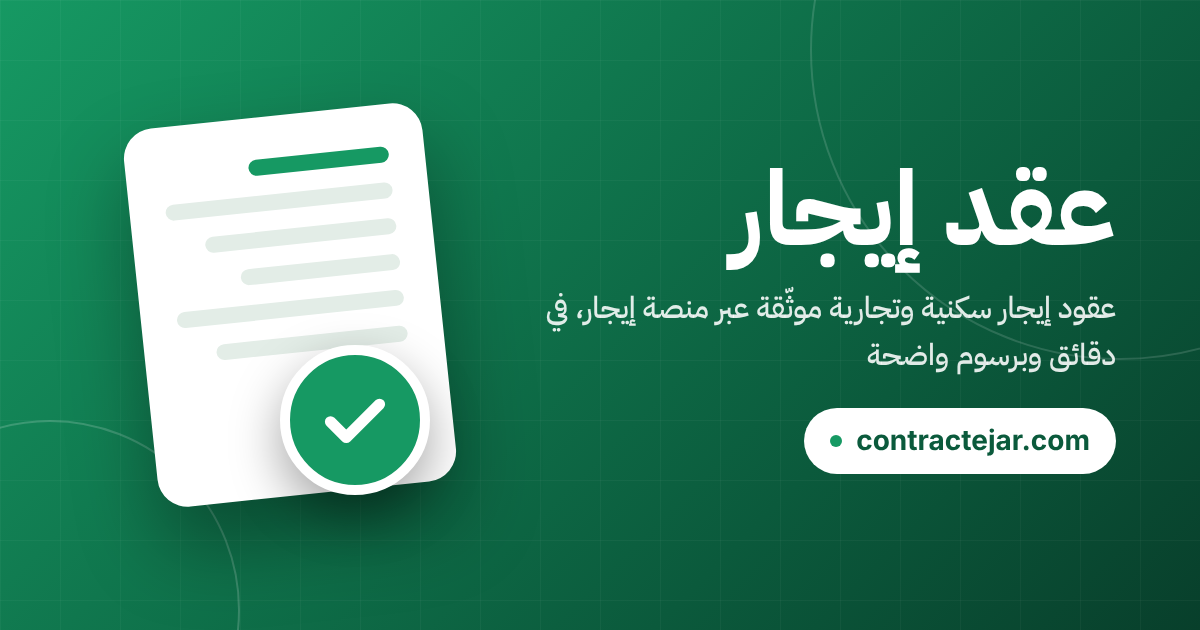
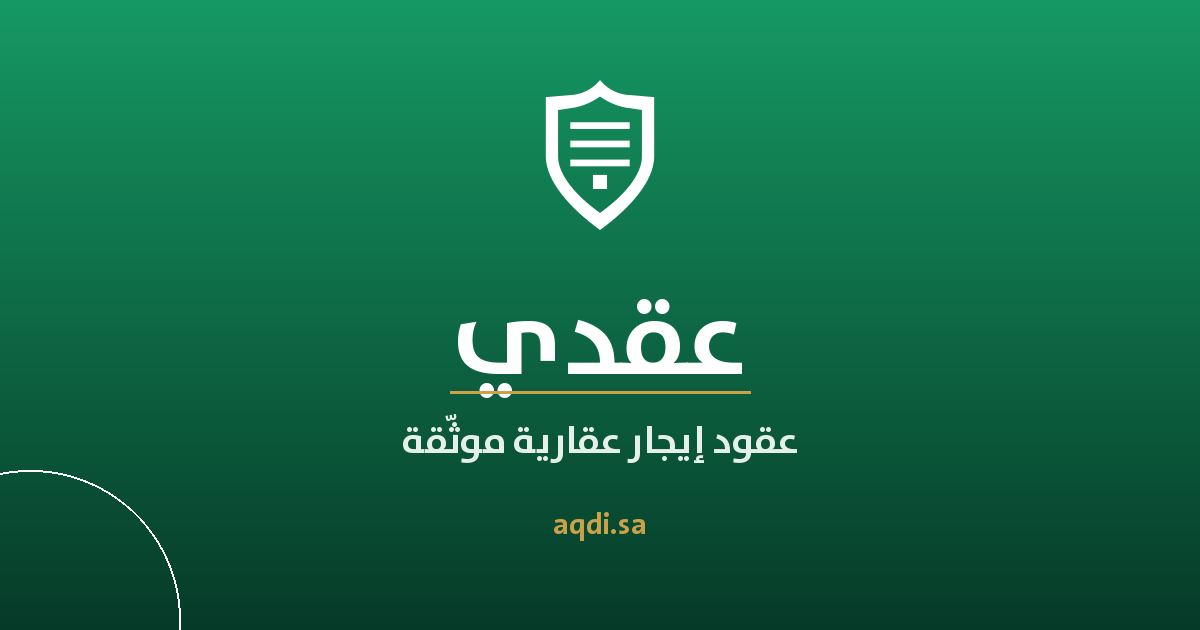
تغيير الاسم والشعار إلى «عقدي» + سجل العمل (البند 2)
Claude-Session: https://claude.ai/code/session_015uvxt7A31EqhwrAAPkKYDo

diff --git a/features/shared/components/navbar-logo.tsx b/features/shared/components/navbar-logo.tsx
@@ -3,26 +3,30 @@ export default function NavbarLogo() {
     <svg
       width="46"
       height="46"
-      viewBox="0 0 64 64"
+      viewBox="-30 6 264 264"
       fill="none"
       xmlns="http://www.w3.org/2000/svg"
       aria-hidden="true"
       className="shrink-0"
     >
-      {/* عقد إيجار — وثيقة موثّقة (Contract Ejar identity mark) */}
-      <rect x="13" y="9" width="30" height="40" rx="6" fill="#169963" />
-      <path d="M19 20H37" stroke="white" strokeWidth="3" strokeLinecap="round" />
-      <path d="M19 27H37" stroke="white" strokeWidth="3" strokeLinecap="round" opacity="0.8" />
-      <path d="M19 34H31" stroke="white" strokeWidth="3" strokeLinecap="round" opacity="0.6" />
-      <circle cx="45" cy="45" r="13" fill="#0B5A3C" stroke="white" strokeWidth="3" />
+      {/* شعار عقدي — الدرع (الأمان) والعقد (من دليل الهوية) */}
+      <defs>
+        <linearGradient id="aqdi-mark-gradient" x1="0" y1="0" x2="0" y2="1">
+          <stop offset="0" stopColor="#0d5a50" />
+          <stop offset="1" stopColor="#0db38b" />
+        </linearGradient>
+      </defs>
       <path
-        d="M39 45l4.5 4.5 7.5-9"
-        fill="none"
-        stroke="white"
-        strokeWidth="3.4"
-        strokeLinecap="round"
-        strokeLinejoin="round"
+        fill="url(#aqdi-mark-gradient)"
+        fillRule="evenodd"
+        d="M13 38L60 34C78 31 92 22 101.5 10C111 22 125 31 143 34L190 38V135C190 175 150 220 101.5 255C53 220 13 175 13 135Z M33 59L60 55C76 52 90 45 101.5 37C113 45 127 52 143 55L170 59V135C170 165 140 200 101.5 227C63 200 33 165 33 135Z"
       />
+      <g fill="url(#aqdi-mark-gradient)">
+        <rect x="53" y="79" width="97" height="11" />
+        <rect x="53" y="109" width="97" height="11" />
+        <rect x="53" y="140" width="97" height="11" />
+        <rect x="90" y="165" width="23" height="23" />
+      </g>
     </svg>
   );
 }

diff --git a/app/(main)/status/page.tsx b/app/(main)/status/page.tsx
@@ -11,7 +11,7 @@ export const dynamic = "force-dynamic";
 
 export const metadata: Metadata = buildPageMetadata({
   title: "حالة المنصة",
-  description: "حالة خدمات منصة عقد إيجار الآن: الطلبات، قاعدة البيانات، الإشعارات، وبوابة الدفع.",
+  description: "حالة خدمات منصة عقدي الآن: الطلبات، قاعدة البيانات، الإشعارات، وبوابة الدفع.",
   path: "/status",
   noindex: true,
 });
@@ -42,7 +42,7 @@ export default async function StatusPage() {
           </div>
           <h1 className="text-3xl font-bold leading-tight md:text-4xl">هل كل شيء يعمل؟</h1>
           <p className="mx-auto max-w-2xl text-base leading-relaxed text-muted-foreground">
-            نعرض هنا حالة خدمات «عقد إيجار» لحظة بلحظة. إذا واجهت مشكلة والصفحة تقول إن كل شيء سليم، تواصل معنا من{" "}
+            نعرض هنا حالة خدمات «عقدي» لحظة بلحظة. إذا واجهت مشكلة والصفحة تقول إن كل شيء سليم، تواصل معنا من{" "}
             <Link href="/support" className="font-bold text-brand underline-offset-4 hover:underline">
               صفحة الدعم
             </Link>

diff --git a/app/layout.tsx b/app/layout.tsx
@@ -134,7 +134,7 @@ export default async function RootLayout({
     ? null
     : await getWebsiteClosedView(websiteStatus, locale);
 
-  // Organization + WebSite structured data (JSON-LD): يعرّف كيان «عقد إيجار»
+  // Organization + WebSite structured data (JSON-LD): يعرّف كيان «عقدي»
   // (الاسم/الشعار/التواصل) لمحركات البحث ومحرّكات AI ليظهر كمصدر موثوق.
   // رقم الدعم وحسابات التواصل من إعدادات الخادم (لا أرقام ولا حسابات ثابتة في الكود).
   const supportTel = (resolveFooterPhoneHref(settings) ?? "tel:+966597500014").replace(/^tel:/, "");
@@ -142,7 +142,7 @@ export default async function RootLayout({
   const orgJsonLd = {
     "@context": "https://schema.org",
     "@type": "Organization",
-    name: "عقد إيجار",
+    name: "عقدي",
     alternateName: "منصة توثيق عقود الإيجار",
     legalName: "مؤسسة عقدي العقارية",
     url: SITE_URL,
@@ -161,7 +161,7 @@ export default async function RootLayout({
   const websiteJsonLd = {
     "@context": "https://schema.org",
     "@type": "WebSite",
-    name: "عقد إيجار",
+    name: "عقدي",
     url: SITE_URL,
     inLanguage: "ar",
   };

diff --git a/tests/batch-e-qa-fixes.test.ts b/tests/batch-e-qa-fixes.test.ts
@@ -60,7 +60,7 @@ const LABELS: RequestInvoiceDialogLabels = {
   tableDescription: "الوصف",
   tableAmount: "المبلغ",
   title: "الفاتورة",
-  platformName: "عقد إيجار",
+  platformName: "عقدي",
   platformSubtitle: "منصة توثيق عقود الإيجار",
   printLabel: "طباعة / تحميل الفاتورة",
   totalDueLabel: "الإجمالي المستحق",
@@ -118,7 +118,7 @@ describe("W-2 — invoice on /track and /r/{order} from the track payload", () =
     expect(invoice?.transactions).toHaveLength(1);
     expect(invoice?.transactions[0]).toMatchObject({ kind: "bank_transfer", amount: 249, reference: "QA-TRF-301" });
     expect(invoice?.payment_state?.label).toBe("مدفوع · حوالة · 249 ر.س");
-    expect(invoice?.platform_name).toBe("عقد إيجار");
+    expect(invoice?.platform_name).toBe("عقدي");
     expect(invoice?.print_label).toBe("طباعة / تحميل الفاتورة");
     expect(invoice?.datetime_label).toMatch(/^10\/10\/2026, 01:45$/);
   });

diff --git a/lib/seo/page-metadata.ts b/lib/seo/page-metadata.ts
@@ -1,7 +1,7 @@
 import type { Metadata } from "next";
 
 export const SITE_URL = process.env.NEXT_PUBLIC_SITE_URL || "https://contractejar.com";
-export const SITE_NAME = "عقد إيجار";
+export const SITE_NAME = "عقدي";
 export const SITE_TAGLINE = "منصة توثيق عقود الإيجار";
 export const DEFAULT_OG_IMAGE = { url: "/og-image.png", width: 1200, height: 630, alt: `${SITE_NAME} — ${SITE_TAGLINE}` };
 
@@ -12,7 +12,7 @@ type PageMetadataInput = {
   description: string;
   /** Canonical path, e.g. `/guide`. */
   path: string;
-  /** Use the title verbatim (no `| عقد إيجار` suffix). */
+  /** Use the title verbatim (no `| عقدي` suffix). */
   absoluteTitle?: boolean;
   /** `noindex, nofollow` for transactional / personal pages. */
   noindex?: boolean;

diff --git a/features/support/components/support-section.tsx b/features/support/components/support-section.tsx
@@ -66,12 +66,12 @@ export default async function SupportSection({ content }: SupportSectionProps) {
           <div className="order-1 lg:order-2">
             <SupportVisual
               alt={resolved.imageAlt}
-              chatName="فريق دعم عقد إيجار"
+              chatName="فريق دعم عقدي"
               status="متصل الآن"
               messages={[
                 {
                   from: "in",
-                  text: "أهلاً بك في عقد إيجار 👋 كيف يمكنني مساعدتك في توثيق عقدك؟",
+                  text: "أهلاً بك في عقدي 👋 كيف يمكنني مساعدتك في توثيق عقدك؟",
                   time: "١:٣٠ ص",
                 },
                 {

diff --git a/features/settings/utils/build-whatsapp-href.ts b/features/settings/utils/build-whatsapp-href.ts
@@ -21,7 +21,7 @@ export function buildWhatsappHref(
   return `https://wa.me/${normalized}`;
 }
 
-// رقم دعم «عقد إيجار» (0597500014) — القيمة الاحتياطية الوحيدة في الكود (قاعدة ف18).
+// رقم دعم «عقدي» (0597500014) — القيمة الاحتياطية الوحيدة في الكود (قاعدة ف18).
 // المصدر الفعلي هو إعدادات الخادم (`whatsapp_contact` / `whatsapp` / `support_phone`
 // من GET /settings)؛ تُستخدم هذه القيمة فقط عند غياب الإعداد أو بقاء العيّنة التجريبية.
 export const DEFAULT_CONTACT_NUMBER = "966597500014";

diff --git a/features/track-order/components/rate-service-card.tsx b/features/track-order/components/rate-service-card.tsx
@@ -16,7 +16,7 @@ const PLAY_STORE_REVIEW_URL = process.env.NEXT_PUBLIC_PLAY_STORE_REVIEW_URL || "
  */
 export default function RateServiceCard({ orderNumber }: { orderNumber: string }) {
   const whatsappBase = useWhatsappHref();
-  const text = `أبغى أقيّم خدمة «عقد إيجار» لطلبي رقم ${orderNumber}: ⭐⭐⭐⭐⭐\nملاحظاتي: `;
+  const text = `أبغى أقيّم خدمة «عقدي» لطلبي رقم ${orderNumber}: ⭐⭐⭐⭐⭐\nملاحظاتي: `;
   const whatsappHref = `${whatsappBase}${whatsappBase.includes("?") ? "&" : "?"}text=${encodeURIComponent(text)}`;
 
   return (

diff --git a/app/(main)/blog/[slug]/page.tsx b/app/(main)/blog/[slug]/page.tsx
@@ -123,10 +123,10 @@ export default async function BlogDetailPage({ params }: BlogDetailPageProps) {
     dateModified: article.date,
     image: `${SITE_URL}${article.coverImage}`,
     mainEntityOfPage: { "@type": "WebPage", "@id": pageUrl },
-    author: { "@type": "Organization", name: "عقد إيجار" },
+    author: { "@type": "Organization", name: "عقدي" },
     publisher: {
       "@type": "Organization",
-      name: "عقد إيجار",
+      name: "عقدي",
       logo: { "@type": "ImageObject", url: `${SITE_URL}/images/logo.png` },
     },
     inLanguage: "ar-SA",

diff --git a/tests/json-ld.test.tsx b/tests/json-ld.test.tsx
@@ -13,8 +13,8 @@ describe("JsonLd (regression: 944d81c — stored XSS via settings social links)"
   });
 
   it("still produces valid JSON", () => {
-    const html = renderToStaticMarkup(<JsonLd data={{ name: "عقد إيجار <1>" }} />);
+    const html = renderToStaticMarkup(<JsonLd data={{ name: "عقدي <1>" }} />);
     const json = html.replace(/^<script[^>]*>/, "").replace(/<\/script>$/, "");
-    expect(JSON.parse(json)).toEqual({ name: "عقد إيجار <1>" });
+    expect(JSON.parse(json)).toEqual({ name: "عقدي <1>" });
   });
 });

diff --git a/features/notifications/components/app-notification-toast.tsx b/features/notifications/components/app-notification-toast.tsx
@@ -33,13 +33,13 @@ export default function AppNotificationToast({
 
         <Image
           src="/images/logo.png"
-          alt="عقد إيجار"
+          alt="عقدي"
           width={24}
           height={24}
           className="size-4 shrink-0 object-contain"
         />
         </div>
-        <span className="font-bold text-white">عقد إيجار</span>
+        <span className="font-bold text-white">عقدي</span>
       </div>
 
       <div className="flex items-start gap-3 p-4">

diff --git a/features/analytics/components/clarity-script.tsx b/features/analytics/components/clarity-script.tsx
@@ -14,7 +14,7 @@ import { runWhenIdle } from "@/lib/perf/run-when-idle";
  * privacy-friendly. Loaded on the first interaction / a few seconds after load
  * so it never competes with the first paint (#27).
  */
-// Clarity project id for عقد إيجار (contractejar.com). Public by design — it
+// Clarity project id for عقدي (contractejar.com). Public by design — it
 // appears in the page source like any tracking id. An env var overrides it.
 const DEFAULT_CLARITY_ID = "yp4isdfowh";
 
